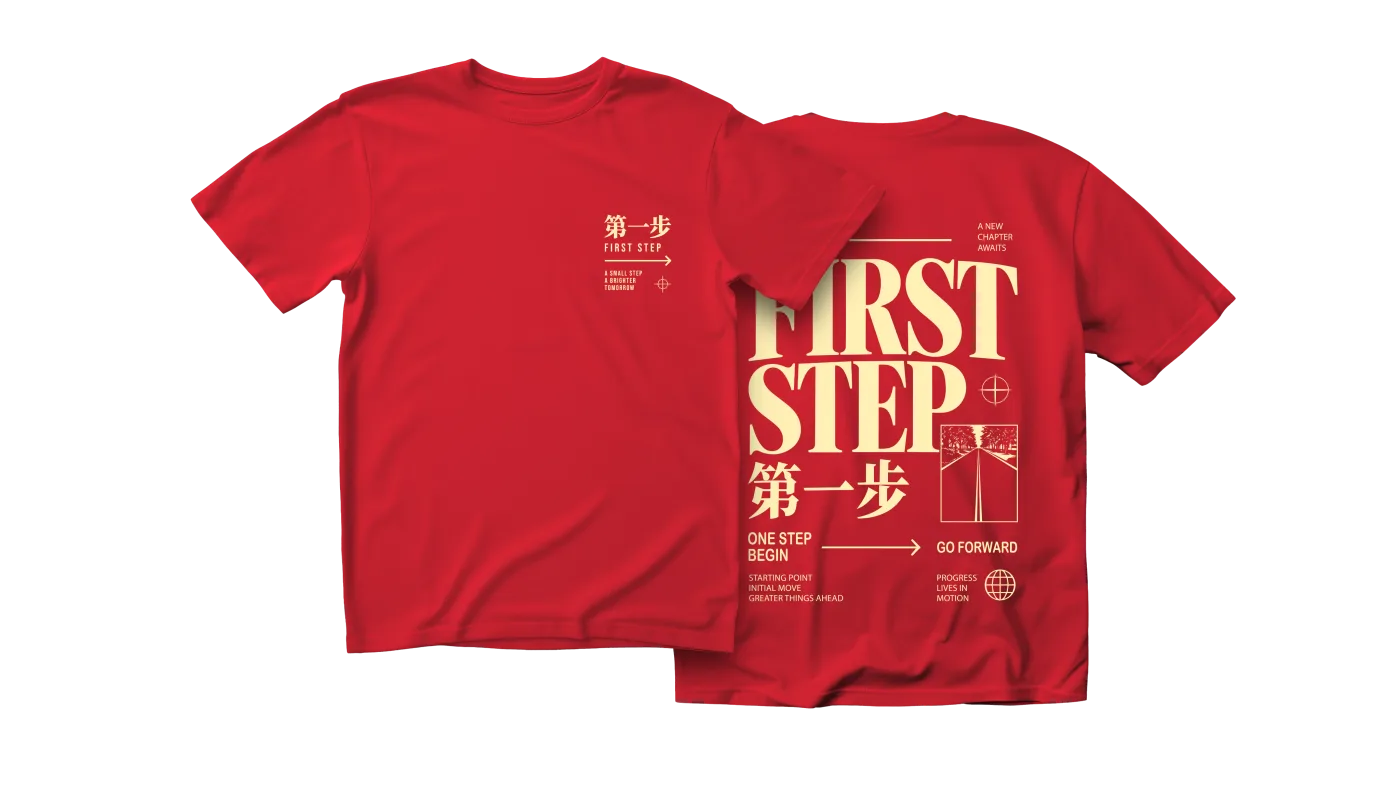
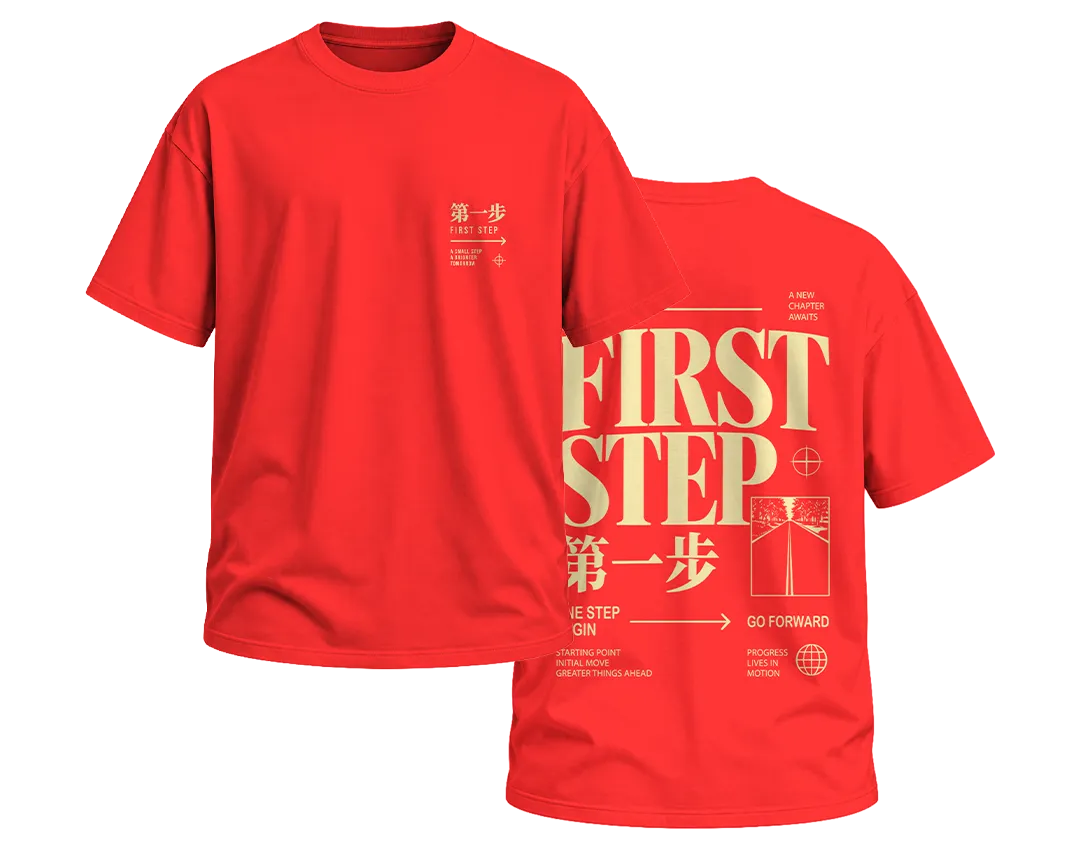
feat(home): sync hero photo and featured card images with Figma

diff --git a/odd/tasks/home-figma-sync.md b/odd/tasks/home-figma-sync.md
@@ -1,0 +1,25 @@
+# home-figma-sync
+
+Objective: sync home (Figma 1:248) images/copy into admin-vora home. Rule: only copy + images; motion untouched.
+
+## Images (Figma node -> local file)
+| Figma | Local | Changed |
+|---|---|---|
+| 1:4 hero bg | hero-couple.webp | yes (new shot, crop top "Good Things"; 120px black left strip cropped out) |
+| 90:451 divider | divider-rectangle.png | no (gradient bar) |
+| 93:248 FIRST STEP | card-first-step.webp | yes (new red tee mockup) |
+| 304:88 KEEP GOING | card-keep-going.webp | yes (new white tee mockup) |
+| 304:95 (content = ON MY WAY crop top) | card-on-my-way.webp | yes |
+| 304:95 label BEYOND ORDINARY (content = beige tee) | none | unmapped: no product |
+| 334:387 BLOOM YOUR OWN WAY | none | unmapped: no product |
+| 334:394 / 334:401 | on-my-way / still-becoming | URL labels swapped in brief; STILL BECOMING (pink crop) differs from local lilac tee product, not replaced |
+| 112:226, 224, 211, 216, 219, 206, 229, 232 collage | hero-figure, mask-*, gallery-* | no (visually identical) |
+
+## Copy
+No differences found vs HomeFrame.tsx. Figma typos not copied: "MOVIMIENRO", "TAMBÍEN" (in a caption).
+
+## Pending (needs product decision)
+Add products BEYOND ORDINARY and BLOOM YOUR OWN WAY; decide STILL BECOMING (pink crop) and featured order.
+
+## Verification
+- npx astro build: pass. GET /admin-vora (dev): 200.
